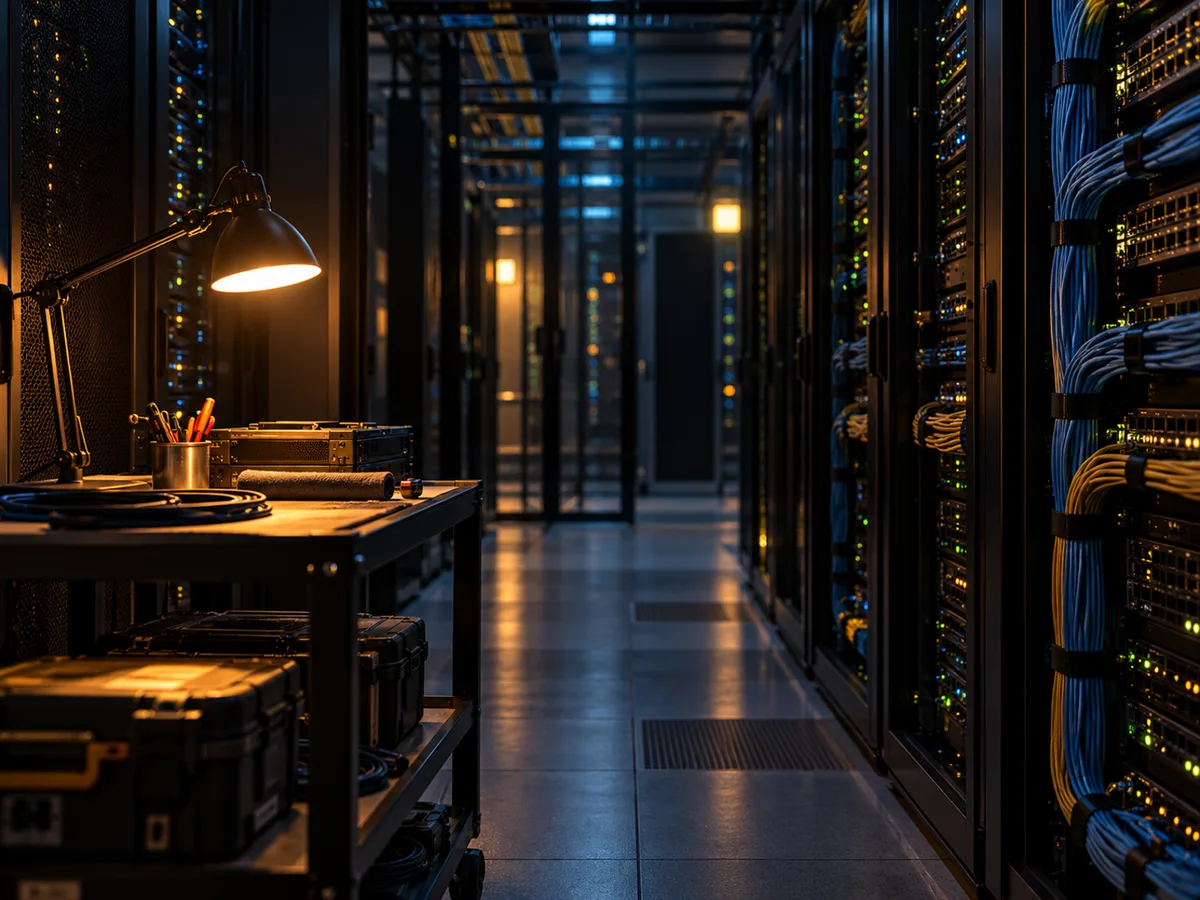
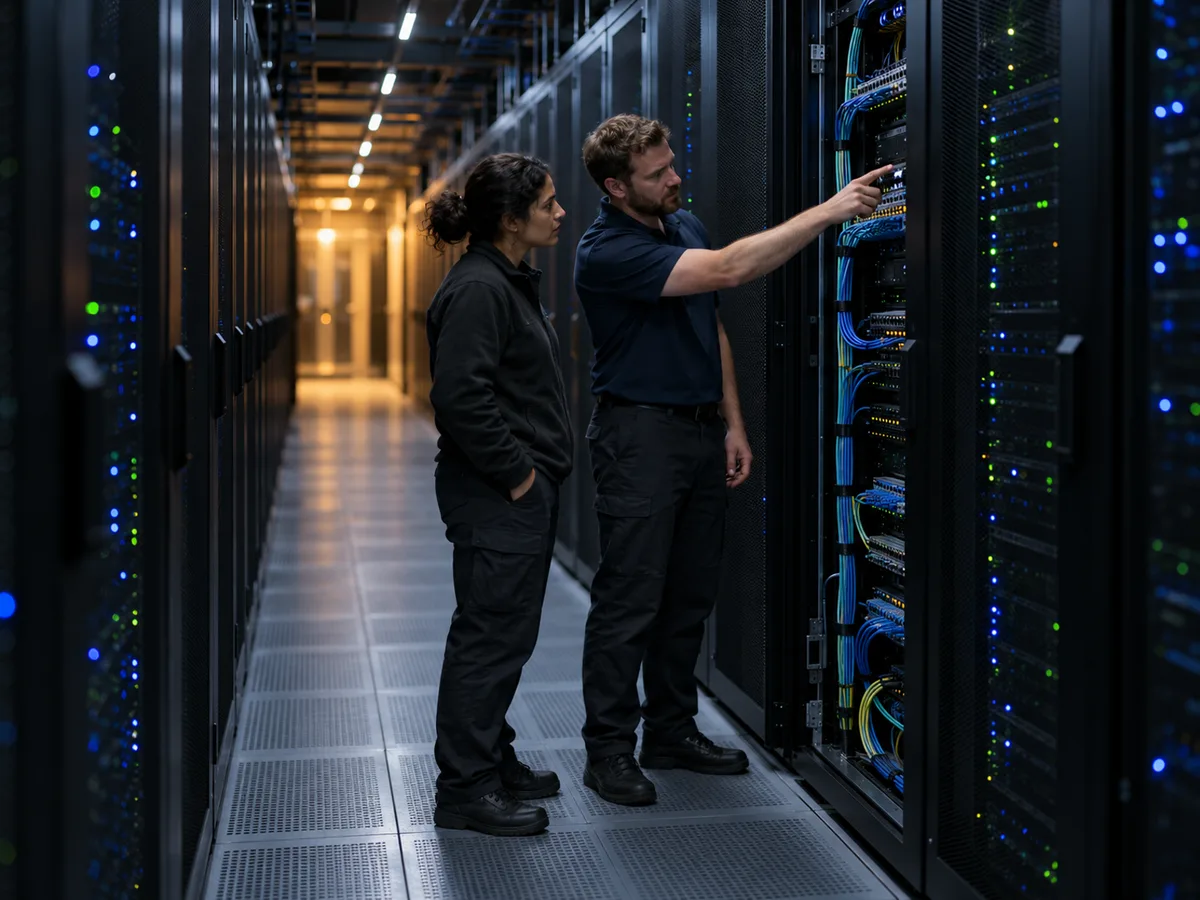
Our record: the retailer photo, two engineers at one rack

diff --git a/index.html b/index.html
@@ -741,7 +741,7 @@ html body .free .wrap::after{background:radial-gradient(70% 50% at 50% 30%,rgba(
     <h2 class="rv">We come from the same work you do, so we would rather build it properly than promise it fast, because <span class="hl">the work that keeps running long after we leave</span> is the reputation every referral comes from.</h2>
     <div class="projects">
       <article class="project rv"><div class="draw"><img src="assets/site/record-bigfour.webp?v=2" alt="A small team at a table at night, talking over a laptop" loading="lazy" width="1200" height="900"><span class="note n1" aria-hidden="true"><i></i>Google Vertex AI</span><span class="note n2" aria-hidden="true"><i></i>Python</span></div><div class="txt"><span class="sector">A Big Four company</span><h3>We built the AI assistant that builds other assistants, and we kept a person in charge between every step, so nothing moved forward without their yes.</h3><div class="tags"><span>Google Vertex AI</span><span>Python</span></div></div></article>
-      <article class="project rv"><div class="draw"><img src="assets/site/record-retailer.webp?v=2" alt="A server room aisle with a work cart under a lamp" loading="lazy" width="1200" height="900"></div><div class="txt"><span class="sector">One of Europe's biggest retailers</span><h3>They trusted us with their cloud infrastructure and the platform on top of it, and we built and drove both together with their own team.</h3><div class="tags"><span>FastAPI</span><span>Go</span><span>Kubernetes</span></div></div></article>
+      <article class="project rv"><div class="draw"><img src="assets/site/record-retailer.webp?v=3" alt="Two engineers in a data centre aisle, working on the same server rack" loading="lazy" width="1200" height="900"></div><div class="txt"><span class="sector">One of Europe's biggest retailers</span><h3>They trusted us with their cloud infrastructure and the platform on top of it, and we built and drove both together with their own team.</h3><div class="tags"><span>FastAPI</span><span>Go</span><span>Kubernetes</span></div></div></article>
       <article class="project rv"><div class="draw"><img src="assets/site/record-teachers.webp?v=2" alt="A teacher in front of a classroom" loading="lazy" width="1200" height="900"></div><div class="txt"><span class="sector">A platform for teachers</span><h3>We moved a vibe-coded platform that many teachers used for AI onto properly built software, so it could grow into the serious product it was meant to be.</h3><div class="tags"><span>Django</span><span>AWS</span></div></div></article>
     </div>
     <p class="more rv">We've been building software <span class="hl">since 2015</span>, and these three are only a few of the places that work has taken us.</p>
